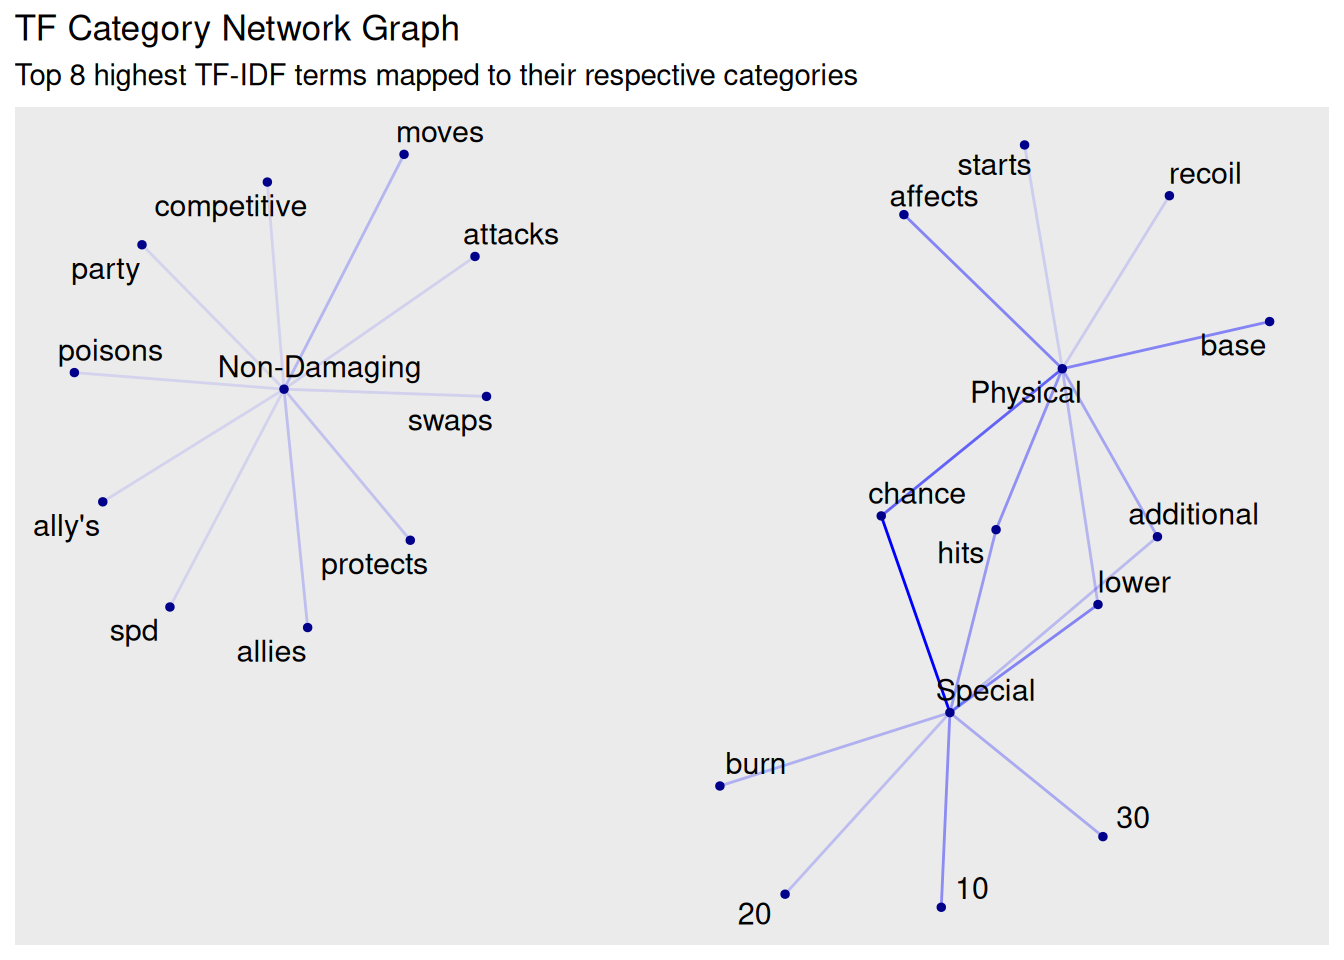
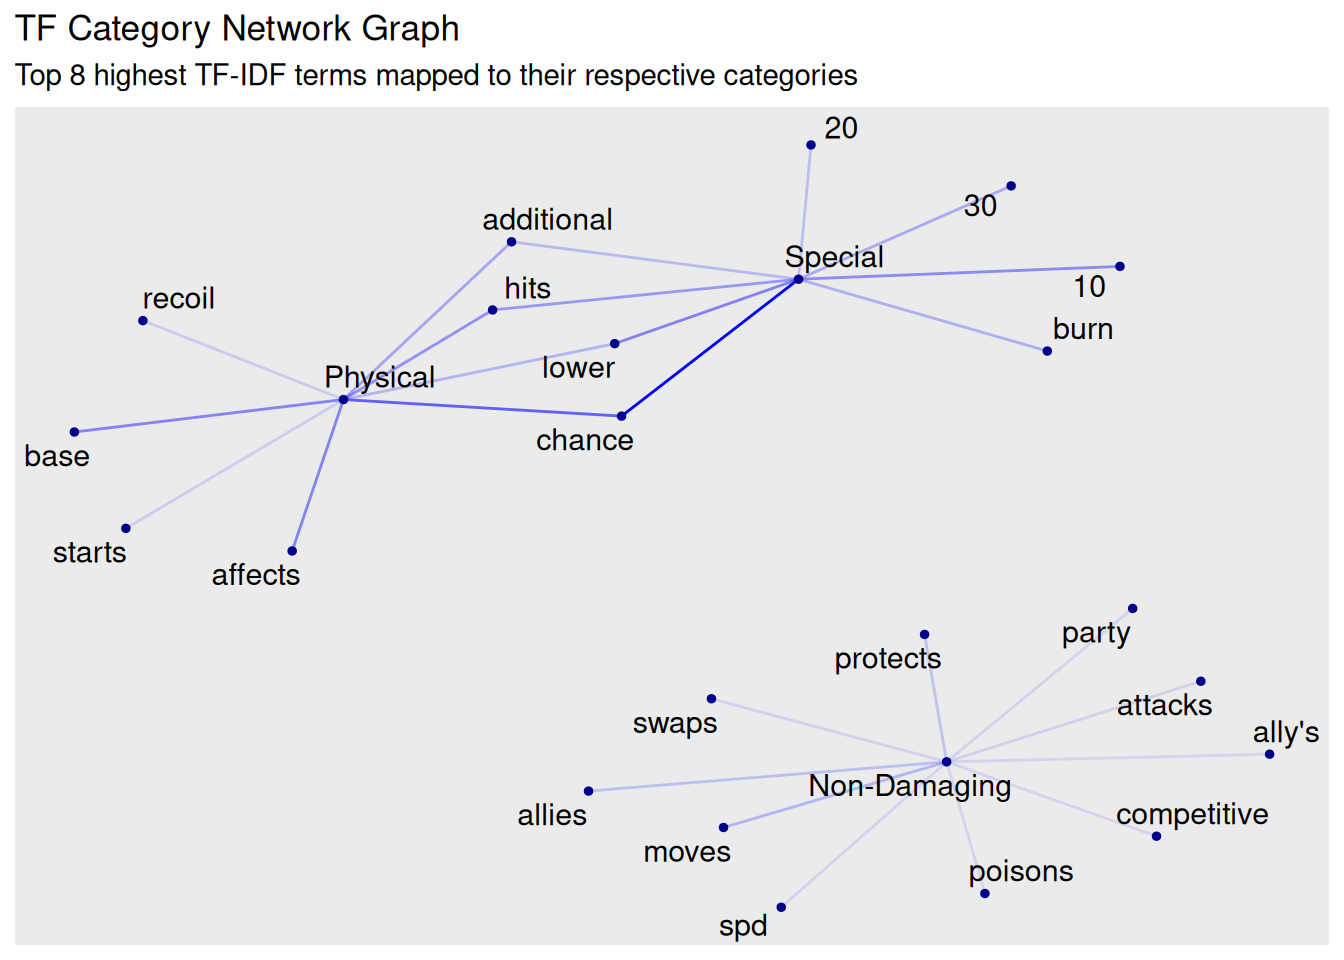
checking

diff --git a/docs/sql_project.html b/docs/sql_project.html
@@ -140,7 +140,7 @@ pre > code.sourceCode > span > a:first-child::before { text-decoration: underlin
  <span class="dropdown-text">SQL project</span></a>
   </li>  
         <li>
-    <a class="dropdown-item" href="./text_analysis_project.qmd">
+    <a class="dropdown-item" href="./text_analysis.html">
  <span class="dropdown-text">text analysis project</span></a>
   </li>  
         <li>
